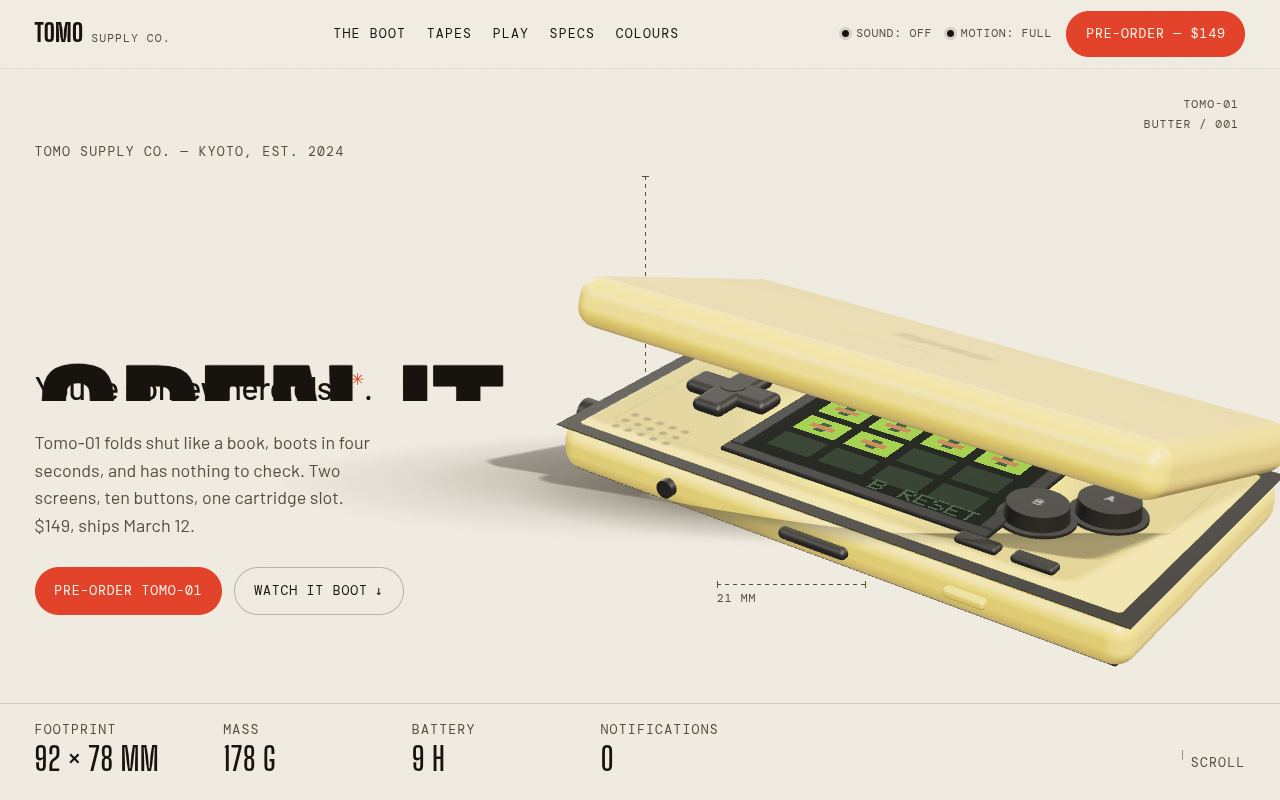
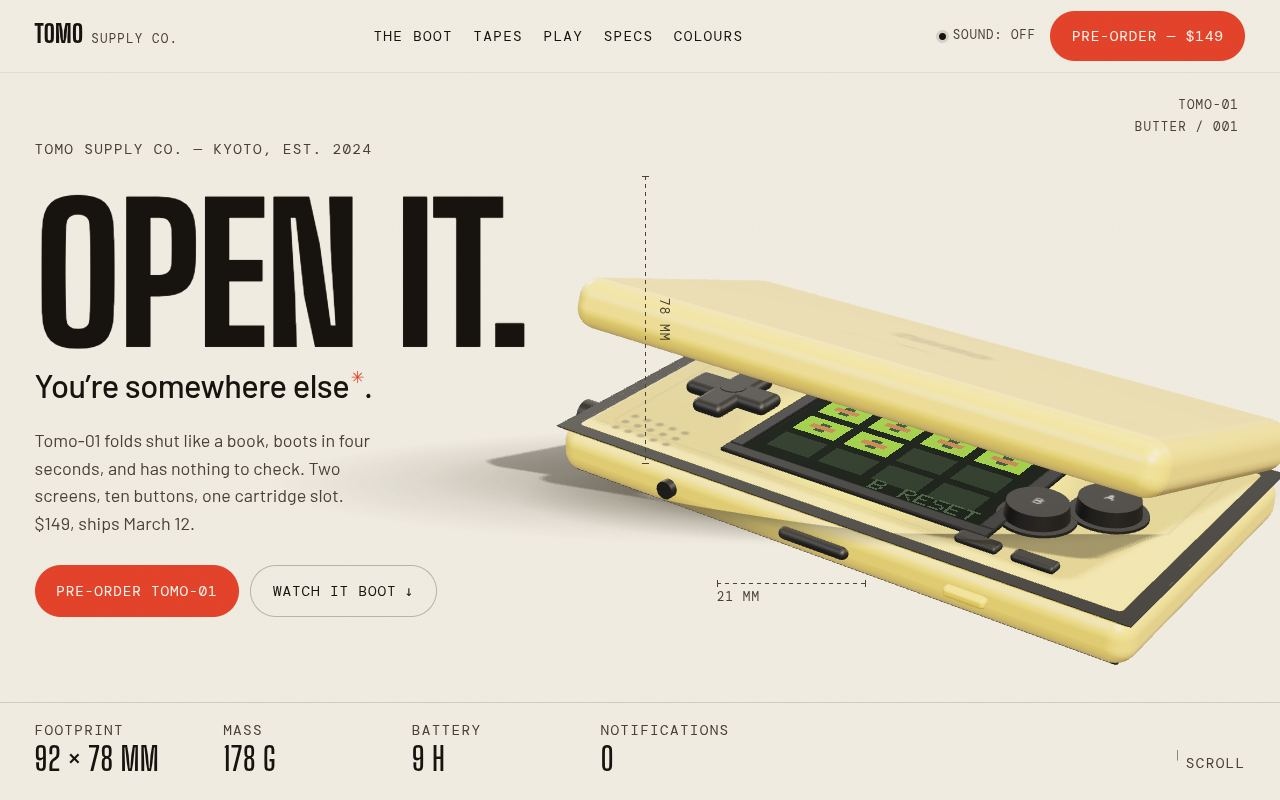
publish

diff --git a/index.html b/index.html
@@ -14,4 +14,4 @@ nav{display:flex;flex-wrap:wrap;gap:8px}nav a{color:var(--fg);text-decoration:no
 nav a:hover{border-color:var(--acc);color:var(--acc)}nav a.repo{color:var(--mute)}footer{color:var(--mute);text-align:center;padding:0 16px 40px;font-size:13px}
 </style></head><body>
 <header><h1>Hermes<br>Gallery</h1><p>Everything Hermes has shipped, with live links. Rebuilt automatically from the project registry every hour, so it's always current.</p></header>
-<main><article><a class="shot" href="https://nd96-8d938128.nip.io/host"><img loading="lazy" src="thumbs/nd96.jpg" alt="ND96 — National Day game (Asir) screenshot"></a><div class="meta"><h2>ND96 — National Day game (Asir)</h2><p>Asir crowd pass LIVE (2026-10-21): wide gentle road for a crowd, wheel-like steering, soft walls, true-circle loop, GTA-style wall ride; crowd sim 20/20 laps.</p><nav><a href="https://nd96-8d938128.nip.io/host">Host ↗</a><a href="https://nd96-8d938128.nip.io/play">Play ↗</a></nav></div></article><article><a class="shot" href="https://volunteer-joseph-preparing-extract.trycloudflare.com/ar"><img loading="lazy" src="thumbs/itlala.jpg" alt="إطلالة Itlala — AI personal shopper screenshot"></a><div class="meta"><h2>إطلالة Itlala — AI personal shopper</h2><p>Phone UI pass LIVE (2026-10-21): typographic wordmark (إطلالة over ITLALA), hero chips that fill their own sentence, outfits before the shared essentials, one count per row, no clipped pieces in the flat-lay.</p><nav><a href="https://volunteer-joseph-preparing-extract.trycloudflare.com/ar">Demo (tunnel, follows rotation) ↗</a><a class="repo" href="https://github.com/Mkj-ai/ai-personal-shopper">repo</a></nav></div></article><article><a class="shot" href="https://hermesalfredguy.github.io/afterlight-20261018/"><img loading="lazy" src="thumbs/afterlight.jpg" alt="Afterlight — DeepSeek Creative Lab screenshot"></a><div class="meta"><h2>Afterlight — DeepSeek Creative Lab</h2><p>Paused by the owner (2026-10-20). Pass-3 graphics work stopped part-way; edits left uncommitted in the workspace.</p><nav><a href="https://hermesalfredguy.github.io/afterlight-20261018/">Site ↗</a><a class="repo" href="https://github.com/HermesAlfredGuy/afterlight-20261018">repo</a></nav></div></article><article><a class="shot" href="https://hermesalfredguy.github.io/ember-run/"><img loading="lazy" src="thumbs/ember-run.jpg" alt="Ember Run — browser game screenshot"></a><div class="meta"><h2>Ember Run — browser game</h2><p>Live demo.</p><nav><a href="https://hermesalfredguy.github.io/ember-run/">Play ↗</a><a class="repo" href="https://github.com/HermesAlfredGuy/ember-run">repo</a></nav></div></article><article><a class="shot" href="https://hermesalfredguy.github.io/hermes-studio/"><img loading="lazy" src="thumbs/studio.jpg" alt="Hermes Studio — tooling &amp; kits screenshot"></a><div class="meta"><h2>Hermes Studio — tooling &amp; kits</h2><p>Kits: web-editorial, game-three, motion (brand-opener, anthem). New: one-take voiceover + beat warp (anthem motion 5.95 vs Oddfellows 6.1), motion gate, a11y/contrast gate in web QA. Hermes film tests: 6/10 → 6.5/10. Motion retrofit 20 Oct: full motion forced always (no OS reduced-motion checks, no toggle), live + QA ok.</p><nav><a href="https://hermesalfredguy.github.io/hermes-studio/">Studio site ↗</a><a href="https://hermesalfredguy.github.io/tidework-studio/">TIDEWORK site ↗</a><a href="https://hermesalfredguy.github.io/ember-run/">Ember Run game ↗</a><a class="repo" href="https://github.com/HermesAlfredGuy/hermes-studio">repo</a></nav></div></article><article><a class="shot" href="https://hermesalfredguy.github.io/handheld-oneshot-test/"><img loading="lazy" src="thumbs/handheld-oneshot-test.jpg" alt="TOCK &amp; friends — handheld launch-site test screenshot"></a><div class="meta"><h2>TOCK &amp; friends — handheld launch-site test</h2><p>4 one-shot pages (DeepSeek/MiniMax, raw/brief/auto-brief).</p><nav><a href="https://hermesalfredguy.github.io/handheld-oneshot-test/">Gallery ↗</a><a href="https://hermesalfredguy.github.io/handheld-oneshot-test/deepseek-auto/">TOCK ↗</a><a class="repo" href="https://github.com/HermesAlfredGuy/handheld-oneshot-test">repo</a></nav></div></article><article><a class="shot" href="https://hermesalfredguy.github.io/tidework-studio/"><img loading="lazy" src="thumbs/tidework-studio.jpg" alt="Tidework — brand studio site screenshot"></a><div class="meta"><h2>Tidework — brand studio site</h2><p>Live.</p><nav><a href="https://hermesalfredguy.github.io/tidework-studio/">Site ↗</a><a class="repo" href="https://github.com/HermesAlfredGuy/tidework-studio">repo</a></nav></div></article><article><a class="shot" href="https://hermesalfredguy.github.io/tomo-01/"><img loading="lazy" src="thumbs/tomo-01.jpg" alt="Tomo-01 — handheld launch site screenshot"></a><div class="meta"><h2>Tomo-01 — handheld launch site</h2><p>Live. Paper-catalogue launch page for a fictional two-screen handheld: bespoke Three.js device (hinge opens on scroll 0-113 deg, two live canvas LCDs), Pebble Garden playable in the page, opt-in synthesised sound, colour studio. Press loop 20s 16:9 + social cut 15s 9:16, both passing the film motion gate. studio-qa green (0 axe, 0 errors, 0 overflow, 0 small tap targets); mobile nav-clearance and anchor scroll-padding fixed after a rubric critique pass (7.1 -&gt; 7.7). Phone pass 2026-10-21: the fixed WebGL canvas now places the device in reserved document-flow bands solved from the measured rect, so nothing can sit under it; 0 text/device overlaps at 390x844 and 360x780, 0 tap targets under 44px, 0 body copy under 15px, playable console in one viewport, desktop layout unchanged (28/29 measured fields identical to the pre-change build).</p><nav><a href="https://hermesalfredguy.github.io/tomo-01/">Live site ↗</a><a class="repo" href="https://github.com/HermesAlfredGuy/tomo-01">repo</a></nav></div></article><article><a class="shot" href="https://hermesalfredguy.github.io/vesper-website-20261018/"><img loading="lazy" src="thumbs/vesper.jpg" alt="Vesper — DeepSeek Web Lab screenshot"></a><div class="meta"><h2>Vesper — DeepSeek Web Lab</h2><p>Site published; lamp object + film (pass 3).</p><nav><a href="https://hermesalfredguy.github.io/vesper-website-20261018/">Site ↗</a><a class="repo" href="https://github.com/HermesAlfredGuy/vesper-website-20261018">repo</a></nav></div></article><article><a class="shot" href="https://kayak-8d938128.nip.io/host"><img loading="lazy" src="thumbs/kayak-game.jpg" alt="Wadi Paddle — ND96 kayak race screenshot"></a><div class="meta"><h2>Wadi Paddle — ND96 kayak race</h2><p>Pass II «تجديف الوادي» live on the Oracle VM: verify event 55 OK, npm test 95/0, live round completed 15 Oct. Motion retrofit 20 Oct live: full motion forced always, no toggle, QA ok.</p><nav><a href="https://kayak-8d938128.nip.io/host">Host screen ↗</a><a href="https://kayak-8d938128.nip.io/play">Play (phone) ↗</a></nav></div></article></main><footer>Updated 2026-10-21 18:04 UTC</footer></body></html>
+<main><article><a class="shot" href="https://nd96-8d938128.nip.io/host"><img loading="lazy" src="thumbs/nd96.jpg" alt="ND96 — National Day game (Asir) screenshot"></a><div class="meta"><h2>ND96 — National Day game (Asir)</h2><p>Asir crowd pass LIVE (2026-10-21): wide gentle road for a crowd, wheel-like steering, soft walls, true-circle loop, GTA-style wall ride; crowd sim 20/20 laps.</p><nav><a href="https://nd96-8d938128.nip.io/host">Host ↗</a><a href="https://nd96-8d938128.nip.io/play">Play ↗</a></nav></div></article><article><a class="shot" href="https://volunteer-joseph-preparing-extract.trycloudflare.com/ar"><img loading="lazy" src="thumbs/itlala.jpg" alt="إطلالة Itlala — AI personal shopper screenshot"></a><div class="meta"><h2>إطلالة Itlala — AI personal shopper</h2><p>Phone UI pass LIVE (2026-10-21): typographic wordmark (إطلالة over ITLALA), hero chips that fill their own sentence, outfits before the shared essentials, one count per row, no clipped pieces in the flat-lay.</p><nav><a href="https://volunteer-joseph-preparing-extract.trycloudflare.com/ar">Demo (tunnel, follows rotation) ↗</a><a class="repo" href="https://github.com/Mkj-ai/ai-personal-shopper">repo</a></nav></div></article><article><a class="shot" href="https://hermesalfredguy.github.io/afterlight-20261018/"><img loading="lazy" src="thumbs/afterlight.jpg" alt="Afterlight — DeepSeek Creative Lab screenshot"></a><div class="meta"><h2>Afterlight — DeepSeek Creative Lab</h2><p>Paused by the owner (2026-10-20). Pass-3 graphics work stopped part-way; edits left uncommitted in the workspace.</p><nav><a href="https://hermesalfredguy.github.io/afterlight-20261018/">Site ↗</a><a class="repo" href="https://github.com/HermesAlfredGuy/afterlight-20261018">repo</a></nav></div></article><article><a class="shot" href="https://hermesalfredguy.github.io/ember-run/"><img loading="lazy" src="thumbs/ember-run.jpg" alt="Ember Run — browser game screenshot"></a><div class="meta"><h2>Ember Run — browser game</h2><p>Live demo.</p><nav><a href="https://hermesalfredguy.github.io/ember-run/">Play ↗</a><a class="repo" href="https://github.com/HermesAlfredGuy/ember-run">repo</a></nav></div></article><article><a class="shot" href="https://hermesalfredguy.github.io/hermes-studio/"><img loading="lazy" src="thumbs/studio.jpg" alt="Hermes Studio — tooling &amp; kits screenshot"></a><div class="meta"><h2>Hermes Studio — tooling &amp; kits</h2><p>Kits: web-editorial, game-three, motion (brand-opener, anthem). New: one-take voiceover + beat warp (anthem motion 5.95 vs Oddfellows 6.1), motion gate, a11y/contrast gate in web QA. Hermes film tests: 6/10 → 6.5/10. Motion retrofit 20 Oct: full motion forced always (no OS reduced-motion checks, no toggle), live + QA ok.</p><nav><a href="https://hermesalfredguy.github.io/hermes-studio/">Studio site ↗</a><a href="https://hermesalfredguy.github.io/tidework-studio/">TIDEWORK site ↗</a><a href="https://hermesalfredguy.github.io/ember-run/">Ember Run game ↗</a><a class="repo" href="https://github.com/HermesAlfredGuy/hermes-studio">repo</a></nav></div></article><article><a class="shot" href="https://hermesalfredguy.github.io/handheld-oneshot-test/"><img loading="lazy" src="thumbs/handheld-oneshot-test.jpg" alt="TOCK &amp; friends — handheld launch-site test screenshot"></a><div class="meta"><h2>TOCK &amp; friends — handheld launch-site test</h2><p>4 one-shot pages (DeepSeek/MiniMax, raw/brief/auto-brief).</p><nav><a href="https://hermesalfredguy.github.io/handheld-oneshot-test/">Gallery ↗</a><a href="https://hermesalfredguy.github.io/handheld-oneshot-test/deepseek-auto/">TOCK ↗</a><a class="repo" href="https://github.com/HermesAlfredGuy/handheld-oneshot-test">repo</a></nav></div></article><article><a class="shot" href="https://hermesalfredguy.github.io/tidework-studio/"><img loading="lazy" src="thumbs/tidework-studio.jpg" alt="Tidework — brand studio site screenshot"></a><div class="meta"><h2>Tidework — brand studio site</h2><p>Live.</p><nav><a href="https://hermesalfredguy.github.io/tidework-studio/">Site ↗</a><a class="repo" href="https://github.com/HermesAlfredGuy/tidework-studio">repo</a></nav></div></article><article><a class="shot" href="https://hermesalfredguy.github.io/tomo-01/"><img loading="lazy" src="thumbs/tomo-01.jpg" alt="Tomo-01 — handheld launch site screenshot"></a><div class="meta"><h2>Tomo-01 — handheld launch site</h2><p>Live. Paper-catalogue launch page for a fictional two-screen handheld: bespoke Three.js device (hinge opens on scroll 0-113 deg, two live canvas LCDs), Pebble Garden playable in the page, opt-in synthesised sound, colour studio. Press loop 20s 16:9 + social cut 15s 9:16, both passing the film motion gate. studio-qa green (0 axe, 0 errors, 0 overflow, 0 small tap targets); mobile nav-clearance and anchor scroll-padding fixed after a rubric critique pass (7.1 -&gt; 7.7). Phone pass 2026-10-21: the fixed WebGL canvas now places the device in reserved document-flow bands solved from the measured rect, so nothing can sit under it; 0 text/device overlaps at 390x844 and 360x780, 0 tap targets under 44px, 0 body copy under 15px, playable console in one viewport, desktop layout unchanged (28/29 measured fields identical to the pre-change build).</p><nav><a href="https://hermesalfredguy.github.io/tomo-01/">Live site ↗</a><a class="repo" href="https://github.com/HermesAlfredGuy/tomo-01">repo</a></nav></div></article><article><a class="shot" href="https://hermesalfredguy.github.io/vesper-website-20261018/"><img loading="lazy" src="thumbs/vesper.jpg" alt="Vesper — DeepSeek Web Lab screenshot"></a><div class="meta"><h2>Vesper — DeepSeek Web Lab</h2><p>Site published; lamp object + film (pass 3).</p><nav><a href="https://hermesalfredguy.github.io/vesper-website-20261018/">Site ↗</a><a class="repo" href="https://github.com/HermesAlfredGuy/vesper-website-20261018">repo</a></nav></div></article><article><a class="shot" href="https://kayak-8d938128.nip.io/host"><img loading="lazy" src="thumbs/kayak-game.jpg" alt="Wadi Paddle — ND96 kayak race screenshot"></a><div class="meta"><h2>Wadi Paddle — ND96 kayak race</h2><p>Pass II «تجديف الوادي» live on the Oracle VM: verify event 55 OK, npm test 95/0, live round completed 15 Oct. Motion retrofit 20 Oct live: full motion forced always, no toggle, QA ok.</p><nav><a href="https://kayak-8d938128.nip.io/host">Host screen ↗</a><a href="https://kayak-8d938128.nip.io/play">Play (phone) ↗</a></nav></div></article></main><footer>Updated 2026-10-21 20:06 UTC</footer></body></html>
